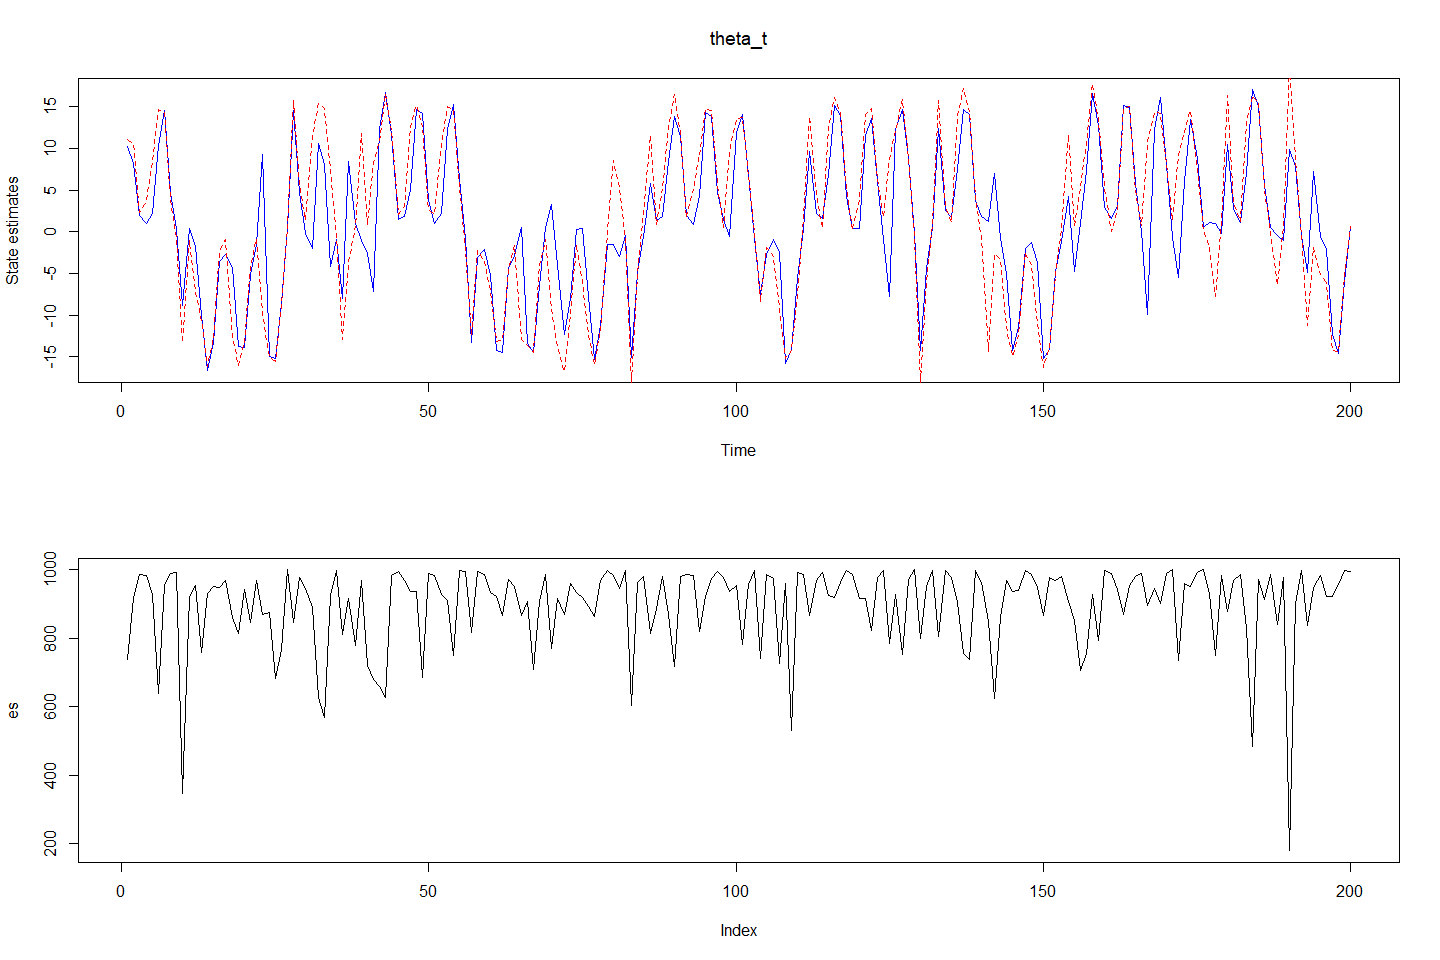
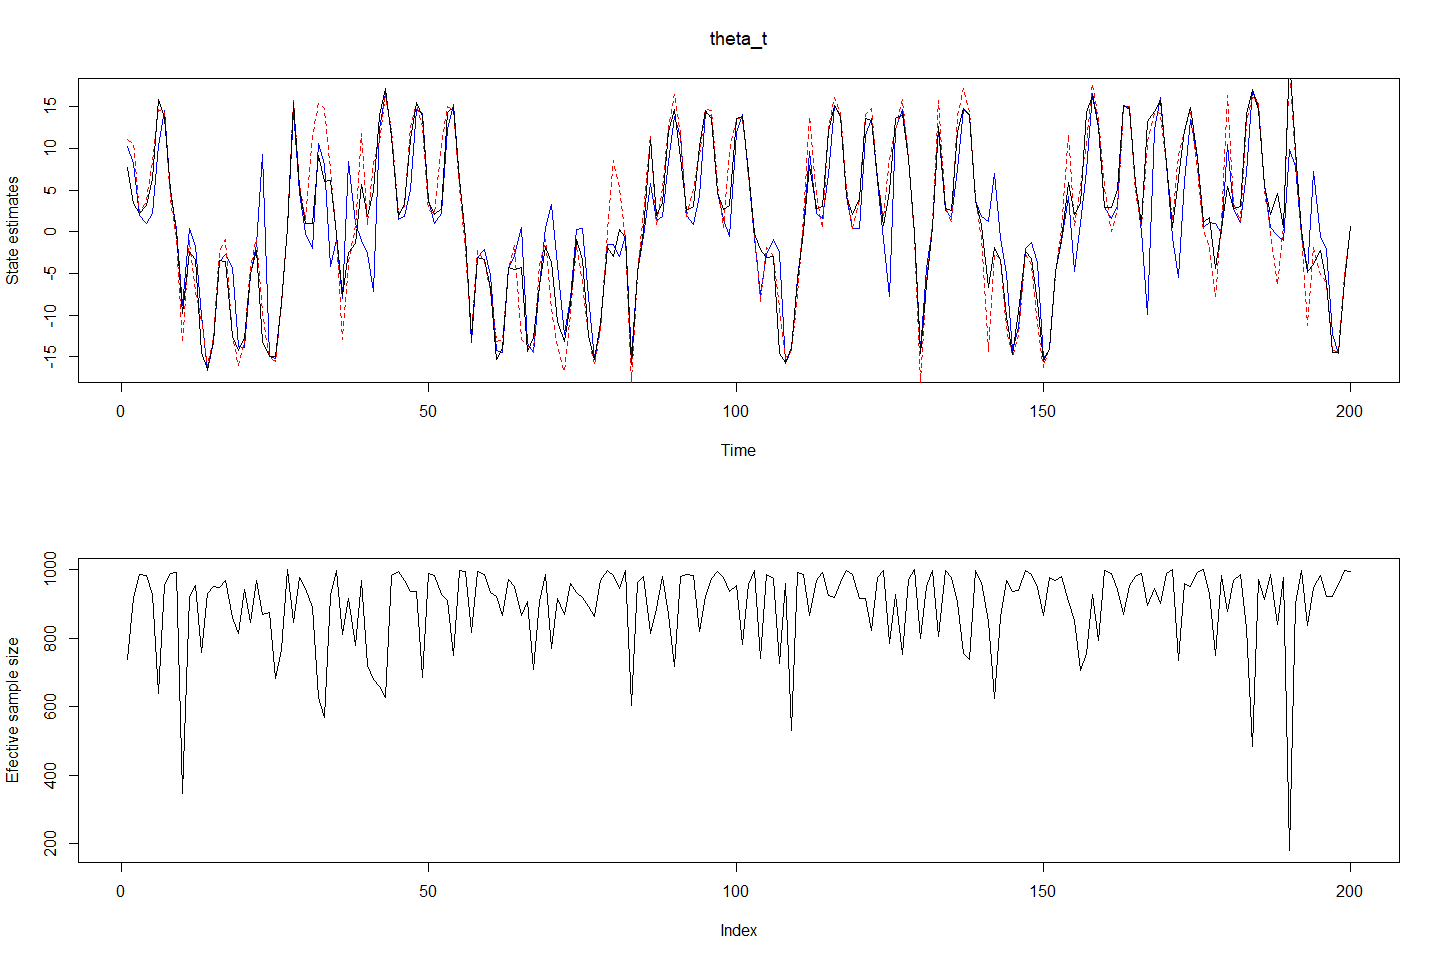
updated README

Changed region(s): [[0.0, 0.6562, 0.0312, 0.8125]]

diff --git a/README.md b/README.md
@@ -57,6 +57,24 @@ plot(sim.theta[1:199],sim.theta[2:200],type="p",pch=19,xlab=TeX("State,$\\theta_
 # Evaluate 2.5% and 97.5 % quantiles
 quant025    <- function(x){quantile(x,0.025)}
 quant975    <- function(x){quantile(x,0.975)}
+
+
+# Smoothing function
+smoothing <- function(Tbig,M,theta)
+{
+  theta.smooth <- array(0,dim=c(Tbig,M))
+  theta.smooth[Tbig,] <- theta[Tbig,]
+  for(t in (Tbig-1):1)
+  {
+    X <- t(apply(cbind(theta[t,],t-1),1,G))
+    m.theta <- apply(X*beta,1,sum)
+    wt <- dnorm(theta.smooth[t+1,],m.theta,sqrt(v))
+    wt <- wt/sum(wt)
+    theta.smooth[t,] <- sample(theta[t,],size=M,
+                               replace=T,prob=wt)
+  }
+  return(theta.smooth)
+}
 ```
 
 ## Sequential Importance Sampling with Resampling
@@ -67,7 +85,6 @@ quant975    <- function(x){quantile(x,0.975)}
 smc.sisr <- function(Tbig,M,y,theta0,wt0)
 {
   est.theta <- NULL
-  weights <- NULL
   ess <- NULL
   
   theta <- theta0
@@ -81,12 +98,14 @@ smc.sisr <- function(Tbig,M,y,theta0,wt0)
     
     wt <- dnorm(y[t],a*theta^2,sqrt(v))
     wt <- wt/sum(wt)
+    
+    # Estimated states
     est.theta <- rbind(est.theta,sample(theta,size=M,
                                         replace=T,prob=wt))
-    weights <- rbind(weights,wt)
+    # Estimated sample size
     ess <- rbind(ess,1/sum(wt^2))
   }
-  return(list("theta"=est.theta,"wt"=weights,"ess"=ess))
+  return(list("theta"=est.theta,"ess"=ess))
 }
 
 set.seed(12545)
@@ -98,16 +117,19 @@ theta0 <- rnorm(M,m0,sqrt(C0))
 wt0 <- rep(1/M,M)
 
 est <- smc.sisr(Tbig,M,sim.y,theta0,wt0)
-mtheta = apply(est$theta,1,mean)
-ltheta = apply(est$theta,1,quant025)
-utheta = apply(est$theta,1,quant975)
-es <- est$ess
+smt <- smoothing(Tbig,M,est$theta)
+sisr.stheta = apply(smt,1,mean)
+sisr.mtheta = apply(est$theta,1,mean)
+sisr.ltheta = apply(est$theta,1,quant025)
+sisr.utheta = apply(est$theta,1,quant975)
+sisr.es <- est$ess
 
 par(mfrow=c(2,1))
-plot(mtheta,xlab="Time",ylab="State estimates",main=expression(theta_t),type = 'l',
-     col="blue")
+plot(sisr.mtheta,xlab="Time",ylab="State estimates",
+     main=expression(theta_t),type = 'l',col="blue")
 lines(sim.theta,col="red",lty=2)
-plot(es,type="l")
+lines(sisr.stheta,col=1,lty=1)
+plot(sisr.es,type="l",ylab="Effective sample size")
 ```
 
 ![](README_files/figure-gfm/imp_sampling-1.png)<!-- -->
@@ -122,7 +144,6 @@ smc.apf <- function(Tbig,M,y,theta0,wt0)
 {
   # Initialize the arrays of estimates
   est.theta <- NULL
-  weights <- NULL
   ess <- NULL
   
   theta <- theta0
@@ -138,15 +159,17 @@ smc.apf <- function(Tbig,M,y,theta0,wt0)
     k <- sample(M,size=M,replace=T,prob=wt/sum(wt))
     
     theta <- rnorm(M,m.theta[k],sqrt(w))
-    wt <- dnorm(y[t],a*theta^2,sqrt(v))/dnorm(y[t],a*m.theta[k]^2,sqrt(v))  
+    wt <- dnorm(y[t],a*theta^2,sqrt(v))/dnorm(y[t],
+                                              a*m.theta[k]^2,sqrt(v))  
     wt <- wt/sum(wt)
     
     # Find estimated state through resampling
-    est.theta <- rbind(est.theta,sample(theta, M, replace = T, prob = wt))
-    weights <- rbind(weights,wt)
+    est.theta <- rbind(est.theta,sample(theta, M, 
+                                        replace = T, prob = wt))
+    # Estimated sample size
     ess <- rbind(ess,1/sum(wt^2))
   }
-  return(list("theta"=est.theta,"wt"=weights,"ess"=ess))
+  return(list("theta"=est.theta,"ess"=ess))
 }
 
 
@@ -159,16 +182,19 @@ theta0 <- rnorm(M,m0,sqrt(C0))
 wt0 <- rep(1/M,M)
 
 est <- smc.apf(Tbig,M,sim.y,theta0,wt0)
-mtheta = apply(est$theta,1,mean)
-ltheta = apply(est$theta,1,quant025)
-utheta = apply(est$theta,1,quant975)
-es <- est$ess
+smt <- smoothing(Tbig,M,est$theta)
+apf.stheta = apply(smt,1,mean)
+apf.mtheta = apply(est$theta,1,mean)
+apf.ltheta = apply(est$theta,1,quant025)
+apf.utheta = apply(est$theta,1,quant975)
+apf.es <- est$ess
 
 par(mfrow=c(2,1))
-plot(mtheta,xlab="Time",ylab="State estimates",main=expression(theta_t),type = 'l',
-     col="blue")
+plot(apf.mtheta,xlab="Time",ylab="State estimates",
+     main=expression(theta_t),type = 'l', col="blue")
 lines(sim.theta,col="red",lty=2)
-plot(es,type="l")
+lines(apf.stheta,col=1,lty=1)
+plot(apf.es,type="l",ylab="Efective sample size")
 ```
 
 ![](README_files/figure-gfm/auxparticlefilter-1.png)<!-- -->
